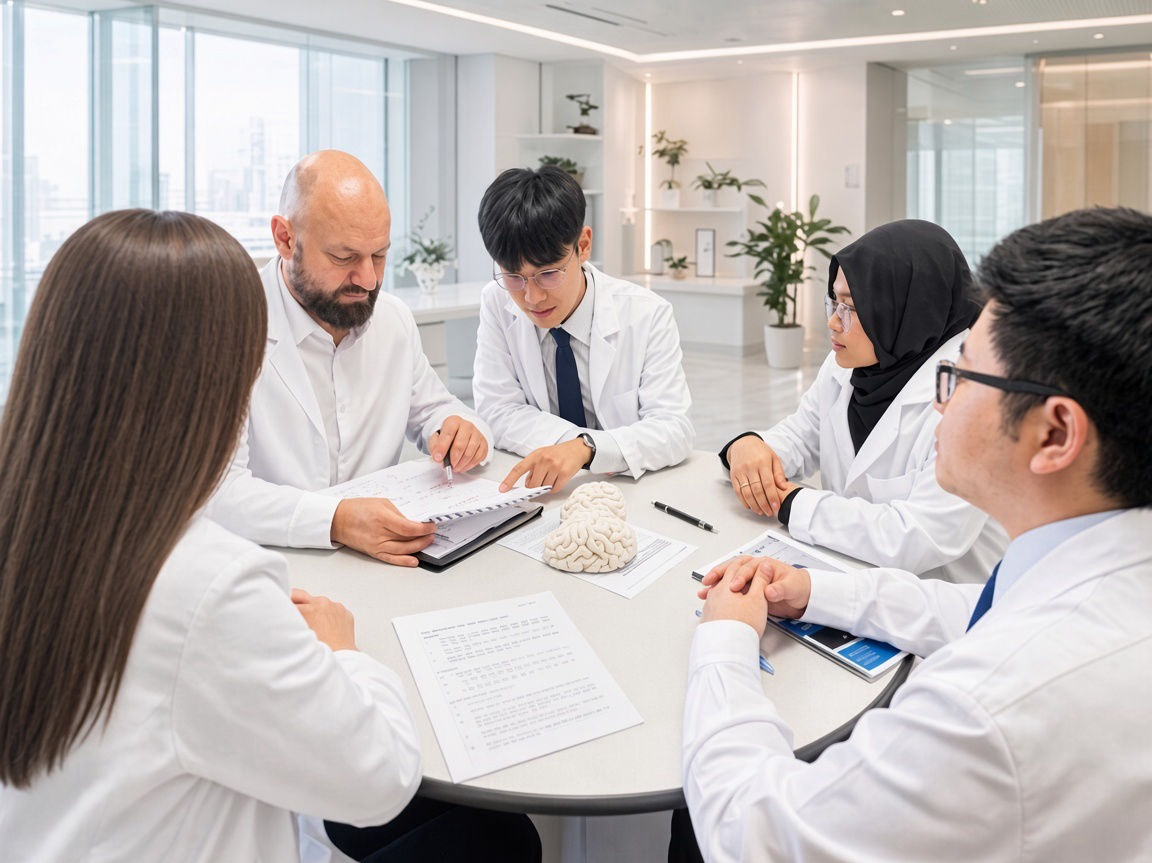
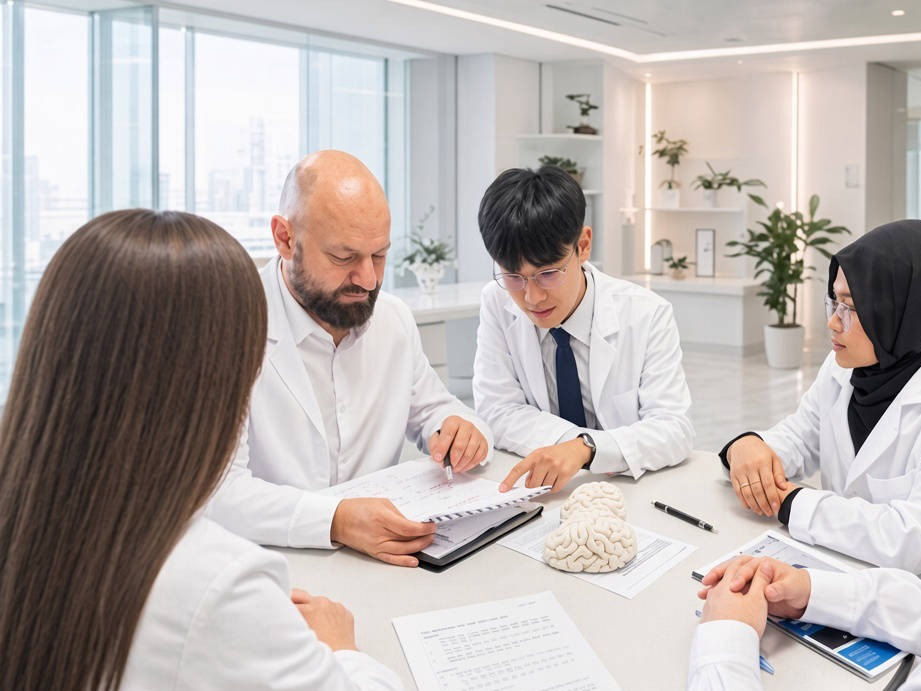
Add files via upload

diff --git a/index.html b/index.html
@@ -18,7 +18,7 @@
   <link rel="stylesheet" href="assets/theme/css/style.css">
   <link rel="preload" href="https://fonts.googleapis.com/css2?family=Golos+Text:wght@400;700&display=swap&display=swap" as="style" onload="this.onload=null;this.rel='stylesheet'">
   <noscript><link rel="stylesheet" href="https://fonts.googleapis.com/css2?family=Golos+Text:wght@400;700&display=swap&display=swap"></noscript>
-  <link rel="preload" as="style" href="assets/mobirise/css/mbr-additional.css?v=dORyUl"><link rel="stylesheet" href="assets/mobirise/css/mbr-additional.css?v=dORyUl" type="text/css">
+  <link rel="preload" as="style" href="assets/mobirise/css/mbr-additional.css?v=oxU2BH"><link rel="stylesheet" href="assets/mobirise/css/mbr-additional.css?v=oxU2BH" type="text/css">
 
   
   
@@ -80,7 +80,7 @@
             <div class="col-12">
                 
                 <div class="content-wrapper">
-                    <p class="mbr-label mbr-fonts-style display-7">Welcome To</p>
+                    <p class="mbr-label mbr-fonts-style display-7"><br><br><br>Welcome To</p>
                     <h2 class="mbr-section-title mbr-fonts-style display-1">Kranz <br>NeuroHealth <br>TMS Treatment Centre</h2>
                     <p class="mbr-text mbr-fonts-style text-2">We are dedicated to providing high-quality, evidence-based TMS treatment through professional care</p>
                     
@@ -122,7 +122,7 @@
                                             <a role="button" class="panel-title collapsed" data-toggle="collapse" data-bs-toggle="collapse" data-core="" href="#collapse1_2" aria-expanded="false" aria-controls="collapse1">
                                                 <h4 class="panel-title-edit mbr-fonts-style display-5">
                                                     
-                                                <div><strong style="font-size: 2.2rem; background-color: transparent;">What is TMS?</strong><br></div></h4>
+                                                <div><span style="font-size: 2.2rem; background-color: transparent;"><strong>What is TMS?</strong></span><br></div></h4>
                                                 <div class="icon-wrapper">
                                                     <span class="sign mobi-mbri mobi-mbri-plus mbr-iconfont"></span>
                                                 </div>
@@ -228,14 +228,14 @@
                     <h2 class="mbr-section-subtitle mbr-fonts-style mbr-white mb-0 display-5">
                         <strong>
                             1. Standard TMS Course</strong></h2>
-                    <p class="mbr-text mbr-white mbr-fonts-style text-2">
+                    <p class="mbr-text mbr-white mbr-fonts-style display-7">
                         A typical course involves 30 sessions. Each session lasts approximately 15 to 30 minutes. The exact number of sessions is determined by the treating doctor.
                     </p>
                 </div>
 
                 <div class="item-wrap">
                     <h2 class="mbr-section-subtitle mbr-fonts-style mbr-white mb-0 display-5"><strong>2. Multiple Sessions on the Same Day</strong></h2>
-                    <p class="mbr-text mbr-white mbr-fonts-style text-2">
+                    <p class="mbr-text mbr-white mbr-fonts-style display-7">
                         Where clinically appropriate, more than one session may be arranged on the same day according to the treatment plan set by the doctor.
                     </p>
                 </div>
@@ -243,7 +243,7 @@
                     <h2 class="mbr-section-subtitle mbr-fonts-style mbr-white mb-0 display-5">
                         <strong>
                             3. Booster &amp; Maintenance Sessions</strong></h2>
-                    <p class="mbr-text mbr-white mbr-fonts-style text-2">Additional sessions may be arranged when recommended by the doctor.
+                    <p class="mbr-text mbr-white mbr-fonts-style display-7">Additional sessions may be arranged when recommended by the doctor.
                     </p>
                 </div>
                 
@@ -331,14 +331,14 @@
                 <div class="item features-without-image col-12 active">
                     <div class="item-wrapper">
                         
-                        <p class="mbr-text mbr-fonts-style mt-0 mb-3 text-2">We operate TMS equipment at New Town Specialists Medical Centre.
+                        <p class="mbr-text mbr-fonts-style mt-0 mb-3 display-7">We operate TMS equipment at New Town Specialists Medical Centre.
                         </p>
                     </div>
                 </div>
                 <div class="item features-without-image col-12">
                     <div class="item-wrapper">
                         
-                        <p class="mbr-text mbr-fonts-style mt-0 mb-3 text-2">
+                        <p class="mbr-text mbr-fonts-style mt-0 mb-3 display-7">
                             We use MagVenture TMS equipment, a model also adopted by hospitals under the Hospital Authority. We use Atlas Neuronavigation for guided coil positioning.
                         </p>
                     </div>
@@ -346,7 +346,7 @@
                 <div class="item features-without-image col-12">
                     <div class="item-wrapper">
                         
-                        <p class="mbr-text mbr-fonts-style mt-0 mb-3 text-2">
+                        <p class="mbr-text mbr-fonts-style mt-0 mb-3 display-7">
                             The first treatment session is overseen and assessed by a psychiatrist, who reviews the individual’s medical history (including medication, history of epilepsy, and any metal implants) to confirm suitability and formulate a personalised plan.
                         </p>
                     </div>

diff --git a/assets/mobirise/css/mbr-additional.css b/assets/mobirise/css/mbr-additional.css
@@ -36,19 +36,19 @@ body {
 }
 .display-5 {
   font-family: 'Golos Text', sans-serif;
-  font-size: 2.2rem;
+  font-size: 2.1rem;
   line-height: 1.2;
 }
 .display-5 > .mbr-iconfont {
-  font-size: 2.75rem;
+  font-size: 2.625rem;
 }
 .display-7 {
   font-family: 'Golos Text', sans-serif;
-  font-size: 1.2rem;
+  font-size: 1.5rem;
   line-height: 1.4;
 }
 .display-7 > .mbr-iconfont {
-  font-size: 1.5rem;
+  font-size: 1.875rem;
 }
 /* ---- Fluid typography for mobile devices ---- */
 /* 1.4 - font scale ratio ( bootstrap == 1.42857 ) */
@@ -77,14 +77,14 @@ body {
     line-height: calc( 1.6 * (1.04375rem + (1.125 - 1.04375) * ((100vw - 20rem) / (48 - 20))));
   }
   .display-5 {
-    font-size: 1.76rem;
-    font-size: calc( 1.42rem + (2.2 - 1.42) * ((100vw - 20rem) / (48 - 20)));
-    line-height: calc( 1.2 * (1.42rem + (2.2 - 1.42) * ((100vw - 20rem) / (48 - 20))));
+    font-size: 1.68rem;
+    font-size: calc( 1.385rem + (2.1 - 1.385) * ((100vw - 20rem) / (48 - 20)));
+    line-height: calc( 1.2 * (1.385rem + (2.1 - 1.385) * ((100vw - 20rem) / (48 - 20))));
   }
   .display-7 {
-    font-size: 0.96rem;
-    font-size: calc( 1.07rem + (1.2 - 1.07) * ((100vw - 20rem) / (48 - 20)));
-    line-height: calc( 1.4 * (1.07rem + (1.2 - 1.07) * ((100vw - 20rem) / (48 - 20))));
+    font-size: 1.2rem;
+    font-size: calc( 1.175rem + (1.5 - 1.175) * ((100vw - 20rem) / (48 - 20)));
+    line-height: calc( 1.4 * (1.175rem + (1.5 - 1.175) * ((100vw - 20rem) / (48 - 20))));
   }
 }
 @media (min-width: 992px) and (max-width: 1400px) {
@@ -104,14 +104,14 @@ body {
     line-height: calc( 1.6 * (1.04375rem + (1.125 - 1.04375) * ((100vw - 62rem) / (87 - 62))));
   }
   .display-5 {
-    font-size: 1.76rem;
-    font-size: calc( 1.42rem + (2.2 - 1.42) * ((100vw - 62rem) / (87 - 62)));
-    line-height: calc( 1.2 * (1.42rem + (2.2 - 1.42) * ((100vw - 62rem) / (87 - 62))));
+    font-size: 1.68rem;
+    font-size: calc( 1.385rem + (2.1 - 1.385) * ((100vw - 62rem) / (87 - 62)));
+    line-height: calc( 1.2 * (1.385rem + (2.1 - 1.385) * ((100vw - 62rem) / (87 - 62))));
   }
   .display-7 {
-    font-size: 0.96rem;
-    font-size: calc( 1.07rem + (1.2 - 1.07) * ((100vw - 62rem) / (87 - 62)));
-    line-height: calc( 1.4 * (1.07rem + (1.2 - 1.07) * ((100vw - 62rem) / (87 - 62))));
+    font-size: 1.2rem;
+    font-size: calc( 1.175rem + (1.5 - 1.175) * ((100vw - 62rem) / (87 - 62)));
+    line-height: calc( 1.4 * (1.175rem + (1.5 - 1.175) * ((100vw - 62rem) / (87 - 62))));
   }
 }
 /* Buttons */
@@ -753,13 +753,13 @@ a:hover {
 }
 .form-control {
   font-family: 'Golos Text', sans-serif;
-  font-size: 1.2rem;
+  font-size: 1.5rem;
   line-height: 1.4;
   font-weight: 400;
   border-radius: 40px !important;
 }
 .form-control > .mbr-iconfont {
-  font-size: 1.5rem;
+  font-size: 1.875rem;
 }
 .form-control:hover,
 .form-control:focus {
@@ -768,12 +768,12 @@ a:hover {
 }
 .form-control:-webkit-input-placeholder {
   font-family: 'Golos Text', sans-serif;
-  font-size: 1.2rem;
+  font-size: 1.5rem;
   line-height: 1.4;
   font-weight: 400;
 }
 .form-control:-webkit-input-placeholder > .mbr-iconfont {
-  font-size: 1.5rem;
+  font-size: 1.875rem;
 }
 blockquote {
   border-color: #70a9a1;
@@ -1484,7 +1484,10 @@ img,
 }
 @media (max-width: 991px) {
   .cid-vuNDZy7DOl .navbar-brand {
-    margin-right: auto;
+    margin-right: auto !important;
+    margin-left: 0 !important;
+    order: 1 !important;
+    padding-left: 0 !important;
   }
   .cid-vuNDZy7DOl .navbar-collapse {
     z-index: -1 !important;
@@ -1551,6 +1554,26 @@ img,
     flex-direction: column;
     align-items: flex-start;
   }
+  .cid-vuNDZy7DOl .navbar {
+    display: flex !important;
+    justify-content: flex-start !important;
+    align-items: center !important;
+    padding-left: 8px !important;
+    padding-right: 8px !important;
+  }
+  .cid-vuNDZy7DOl .navbar .dropdown,
+  .cid-vuNDZy7DOl .navbar .lang,
+  .cid-vuNDZy7DOl .navbar .language,
+  .cid-vuNDZy7DOl .navbar [class*="lang"],
+  .cid-vuNDZy7DOl .navbar .nav-item.dropdown {
+    order: 2 !important;
+    margin-left: auto !important;
+    margin-right: 8px !important;
+  }
+  .cid-vuNDZy7DOl .navbar-toggler {
+    order: 3 !important;
+    margin-left: auto !important;
+  }
 }
 .cid-vuNDZy7DOl .navbar-logo img {
   width: auto !important;
@@ -1559,7 +1582,7 @@ img,
   object-fit: contain !important;
 }
 .cid-vtWvacGw2H {
-  background-image: url("../../../assets/images/group202-1312x784.jpeg");
+  background-image: url("../../../assets/images/group201-1152x864.jpeg");
 }
 .cid-vtWvacGw2H .mbr-fallback-image.disabled {
   display: none;
@@ -1870,6 +1893,33 @@ img,
 .cid-vuMRGZ7wG6 .mbr-section-title,
 .cid-vuMRGZ7wG6 .title-wrapper {
   text-align: center;
+}
+@media (max-width: 767px) {
+  .cid-vuMRGZ7wG6 .card-header *,
+  .cid-vuMRGZ7wG6 .card-header,
+  .cid-vuMRGZ7wG6 .accordion-button,
+  .cid-vuMRGZ7wG6 .accordion-header,
+  .cid-vuMRGZ7wG6 .accordion-header *,
+  .cid-vuMRGZ7wG6 .panel-title,
+  .cid-vuMRGZ7wG6 .panel-title *,
+  .cid-vuMRGZ7wG6 .mbr-card-title,
+  .cid-vuMRGZ7wG6 .card-title,
+  .cid-vuMRGZ7wG6 h1,
+  .cid-vuMRGZ7wG6 h2,
+  .cid-vuMRGZ7wG6 h3,
+  .cid-vuMRGZ7wG6 h4,
+  .cid-vuMRGZ7wG6 h5,
+  .cid-vuMRGZ7wG6 h6 {
+    font-size: 1.9rem !important;
+    line-height: 1.35 !important;
+    font-weight: 600 !important;
+  }
+  .cid-vuMRGZ7wG6 .card-header,
+  .cid-vuMRGZ7wG6 .accordion-button,
+  .cid-vuMRGZ7wG6 .panel-title {
+    white-space: normal !important;
+    word-break: break-word !important;
+  }
 }
 .cid-vuMWkCApmq {
   padding-top: 6rem;

diff --git a/page1.html b/page1.html
@@ -18,7 +18,7 @@
   <link rel="stylesheet" href="assets/theme/css/style.css">
   <link rel="preload" href="https://fonts.googleapis.com/css2?family=Golos+Text:wght@400;700&display=swap&display=swap" as="style" onload="this.onload=null;this.rel='stylesheet'">
   <noscript><link rel="stylesheet" href="https://fonts.googleapis.com/css2?family=Golos+Text:wght@400;700&display=swap&display=swap"></noscript>
-  <link rel="preload" as="style" href="assets/mobirise/css/mbr-additional.css?v=fGzKce"><link rel="stylesheet" href="assets/mobirise/css/mbr-additional.css?v=fGzKce" type="text/css">
+  <link rel="preload" as="style" href="assets/mobirise/css/mbr-additional.css?v=tJMxLX"><link rel="stylesheet" href="assets/mobirise/css/mbr-additional.css?v=tJMxLX" type="text/css">
 
   
   
